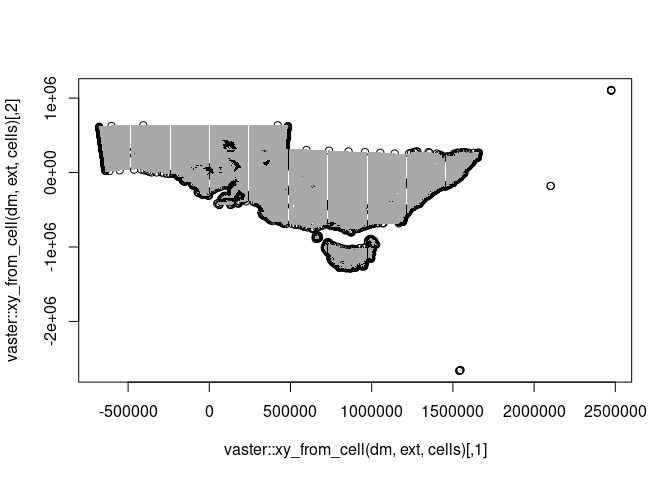
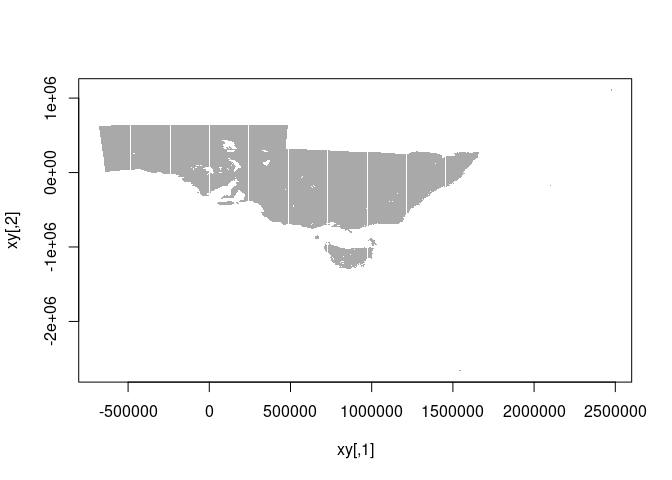
readme

diff --git a/README.md b/README.md
@@ -11,16 +11,19 @@
 The goal of controlledburn is to rasterize without materializing any
 pixel values.
 
-This is an expression of my “cell abstraction”
+This is an expression of the “cell abstraction” wish item
 [fasterize/issues/11](https://github.com/ecohealthalliance/fasterize/issues/11).
 
-- [x] name the package
 - [ ] move to cpp11
-- [ ] rasterize lines and points
+- [ ] rasterize lines
   [fasterize/issues/30](https://github.com/ecohealthalliance/fasterize/issues/30)
 - [ ] formats for import (wk, geos, grd, rct, triangles etc.)
 - [ ] streaming with wkb/xy unpack with wk
-- [ ] provide output options (see next)
+- [ ] provide output options (see next section)
+- [ ] port back into fasterize, with options for efficiently writing out
+  to a tiled and sparse GeoTIF
+- [x] points is too easy, see vaster::cell_from_xy
+- [x] name the package
 - [x] copy logic from fasterize, and remove Armadillo array handling
 - [x] remove use of raster objects, in favour of input extent and
   dimension
@@ -29,10 +32,15 @@ This is an expression of my “cell abstraction”
   (see below)
 - [x] make return of ylin,xpix structure efficient (CollectorList.h ftw)
 
+Lines is built-in but still has some problems. For polygons it’s pretty
+good, see [fasterize
+\#6](https://github.com/ecohealthalliance/fasterize/issues/6) for a
+remaining issue.
+
 ## Outputs
 
-Currently we get a list of triplets, so examples are unlist this to a
-3-column matrix (and add 1).
+Currently we get a list of triplets, so examples are this to a 3-column
+matrix (and add 1).
 
 - two options, record presence of polygon OR ID of polygon
 - a row-indexed (*yline*) set of edge instances (start, end *xpix*)
@@ -71,52 +79,74 @@ library(vaster)
 #>     ts
 ## define a raster (xmin, xmax, ymin, ymax), (ncol, nrow)
 ext <- unlist(lapply(silicate::sc_vertex(pols), range))
-dm <- c(500, 400)
-r <- controlledburn:::laserize(pols, extent = ext,
+dm <- c(50, 40)
+r <- controlledburn:::burn_polygon(pols, extent = ext,
                                dimension = dm)
 
 ## our index is triplets of start,end,line where the polygon edge was detected - 
 ## this essentially an rle by scanline of start,end polygon coverage
 index <- matrix(unlist(r, use.names = F), ncol = 3L, byrow = TRUE) + 1 ## plus one because 0-index internally
-cr <- do.call(rbind, apply(index, 1, \(.x) cbind(seq(.x[1], .x[2]), .x[3])))
-lcells_all <- sort(vaster::cell_from_row_col(dm, cr[,2], cr[,1]))
 
-plot(silicate::PATH0(pols))
-points(xy_from_cell(dm, ext, lcells_all), pch = ".")
+## plot just the start and ends of each scanline detected
+xy0 <- vaster::xy_from_cell(dm, ext, vaster::cell_from_row_col(dm, index[,c(3, 3)], index[,1:2]))
+plot(xy0)
+plot(silicate::PATH0(pols), add = TRUE)
 ```
 
 <img src="man/figures/README-example-1.png" width="100%" />
 
 ``` r
-str(index)
-#>  num [1:779, 1:3] 291 288 286 286 286 286 290 286 287 287 ...
 
-## convert to cells
-cells <- vaster::cell_from_row_col(dm,  index[,c(3, 3)], index[,1:2])
-str(cells)
-#>  num [1:1558] 80291 80788 81286 81786 82286 ...
+## expand out to every cell
+cr <- do.call(rbind, apply(index, 1, \(.x) cbind(seq(.x[1], .x[2]), .x[3])))
+xy <- vaster::xy_from_cell(dm, ext, vaster::cell_from_row_col(dm, cr[,2], cr[,1]))
+plot(xy, pch = 19, cex = .3)
+plot(silicate::PATH0(pols), add = TRUE)
 ```
 
-It scales to very large tasks, less than a second for `250000x200000`
-dimension above, with 35Mb in memory output.
+<img src="man/figures/README-example-2.png" width="100%" />
+
+It scales to very large tasks, with small output.
+
+``` r
+dm <- c(500000, 400000)
+system.time(r <- controlledburn:::burn_polygon(pols, extent = ext,
+                               dimension = dm))
+#>    user  system elapsed 
+#>   1.019   0.032   1.052
+length(r)
+#> [1] 989153
+
+## consider a prod(dm) raster of type double (or even bool) obviously would compress again but why churn
+pryr::object_size(r)  
+#> 71.22 MB
+```
 
 The following is inefficient, but shows that we get the right result.
 
 ``` r
-plot(vaster::xy_from_cell(dm, ext, cells))
+dm <- c(500, 400)
+system.time(r <- controlledburn:::burn_polygon(pols, extent = ext,
+                               dimension = dm))
+#>    user  system elapsed 
+#>   0.002   0.000   0.002
+
+index <- matrix(unlist(r, use.names = F), ncol = 3L, byrow = TRUE) + 1 ## plus one because 0-index internally
+
 ## now go inefficient, this is every column,row index, then converted to cell, converted to xy
 cr <- do.call(rbind, apply(index, 1, \(.x) cbind(seq(.x[1], .x[2]), .x[3])))
-points(xy <- vaster::xy_from_cell(dm, ext, vaster::cell_from_row_col(dm, cr[,2], cr[,1])), pch = ".", col = "darkgrey")
+xy <- vaster::xy_from_cell(dm, ext, vaster::cell_from_row_col(dm, cr[,2], cr[,1]))
+plot(xy, pch = ".", col = "darkgrey")
 ```
 
 <img src="man/figures/README-bad-1.png" width="100%" />
 
 ``` r
 
-r <- terra::rast(cbind(xy, 0), type = "xyz")
+rr <- terra::rast(cbind(xy, 0), type = "xyz")
 
-r[terra::cellFromXY(r, xy)] <- 1
-terra::plot(r ,col = "firebrick")
+rr[terra::cellFromXY(rr, xy)] <- 1
+terra::plot(rr ,col = "firebrick", asp = NA)
 plot(silicate::SC0(pols), add = TRUE)
 ```
 
